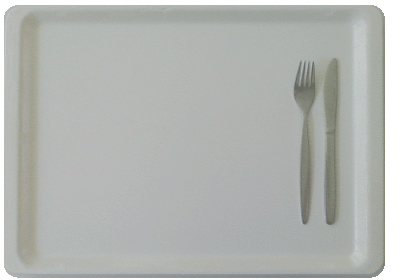
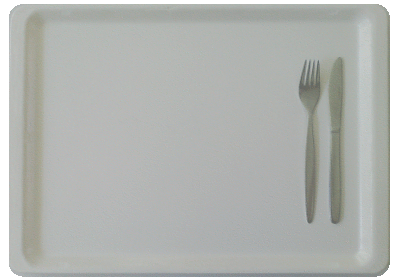
enhance single food view for mobile devices

Changed region(s): [[0.0, 0.0, 0.99, 1.0], [0.09, 0.1143, 0.12, 0.8857], [0.06, 0.0571, 0.09, 0.0857]]

diff --git a/source/App.css b/source/App.css
@@ -96,6 +96,7 @@ div#app_food {
 	z-index: 1;
 }
 
+/* normal size*/
 #app_food_foodPictureWrapper {
 	z-index: 2;
 	padding-top: 45px;
@@ -121,6 +122,31 @@ div#app_food {
    	left: -44px;
 }
 
+/* small size */
+.small_screen#app_food_foodPictureWrapper {
+	z-index: 2;
+	padding-top: 20px;
+	padding-bottom: 20px;
+	margin-top: 20px;
+	margin-bottom: 20px;
+	height: 170px;
+	background: url(../assets/tablet_small.png) center center no-repeat;
+	text-align: center;
+}
+
+.small_screen#app_food_foodPictureWrapper #app_food_foodPicture {
+	z-index: 4;
+	width: 130px; /* Breite des Elements */
+   	height: 130px; /* Höhe des Elements */
+}
+
+.small_screen#app_food_foodPictureWrapper #app_food_zoomFoodPicture {
+	z-index: 5;
+	width: 48px; /* Breite des Elements */
+   	height: 48px; /* Höhe des Elements */
+   	position: relative;
+   	left: -20px;
+}
 
 div#app_food_foodname {
 	font: normal normal normal 16px/18px Courgette, Purisa, Helvetica, Arial, sans-serif;
@@ -133,15 +159,13 @@ div#app_food_foodname {
 	background: #f1f3a2; 
 	background:	-webkit-gradient(linear, 0% 0%, 0% 100%, from(rgba(247,247,210,1)), to(rgba(240,242,155,1)));
 	background: -moz-linear-gradient(top,  rgba(247,247,210,1), rgba(240,242,155,1)); /* for firefox 3.6+ */ 
-	box-shadow: 0 2px 12px rgb(0,0,0);
-	box-shadow: 0 2px 12px rgba(0,0,0,0.5);
-	-moz-box-shadow: 0 2px 12px rgba(0,0,0,0.5); /* Mozilla Firefox */
-	-webkit-box-shadow: 0 2px 12px rgba(0,0,0,0.5); /* Chrome */
-	box-shadow: 0 1px 2px #000; 
 	-webkit-transform: rotate(-3deg);
     -moz-transform: rotate(-3deg);
     -ms-transform: rotate(-3deg);
     transform: rotate(-3deg);
+    border-width:0px 1px 1px 0px;
+    border-color: #000;
+    border-style:solid;
     z-index: 7;
 }
 div#app_food_foodname div#app_food_foodtitle {
@@ -159,15 +183,13 @@ div#app_food_foodFee {
 	background: #f1f3a2; 
 	background:	-webkit-gradient(linear, 0% 0%, 0% 100%, from(rgba(247,247,210,1)), to(rgba(240,242,155,1)));
 	background: -moz-linear-gradient(top,  rgba(247,247,210,1), rgba(240,242,155,1)); /* for firefox 3.6+ */ 
-	box-shadow: 0 2px 12px rgb(0,0,0);
-	box-shadow: 0 2px 12px rgba(0,0,0,0.5);
-	-moz-box-shadow: 0 2px 12px rgba(0,0,0,0.5); /* Mozilla Firefox */
-	-webkit-box-shadow: 0 2px 12px rgba(0,0,0,0.5); /* Chrome */
-	box-shadow: 0 1px 2px #000; 
 	-webkit-transform: rotate(7deg);
     -moz-transform: rotate(7deg);
     -ms-transform: rotate(7deg);
     transform: rotate(7deg);
+    border-width:0px 1px 1px 0px;
+    border-color: #000;
+    border-style:solid;
     z-index: 6;
 }
 div#app_food_foodFee div#app_food_feeTitle {
@@ -204,3 +226,14 @@ div#app_modalPopupAbout img {
 #app_foodlist_list_port {
 	background: url(../assets/bg.png);
 }
+
+#app_buttonPreviousFood {
+	padding: 5px;
+	float:right; 
+}
+
+#app_buttonNextFood {
+	padding: 5px;
+	float:right;
+}
+

diff --git a/source/App.js b/source/App.js
@@ -69,8 +69,9 @@ enyo.kind({
 				{kind: "onyx.Grabber"},
 				{kind: "Scroller", thumb: false, fit: true, touch: true, vertical: "hidden", style: "margin: 0;", components: [
 					{classes: "onyx-toolbar-inline", style: "white-space: nowrap;", components: [
-						{kind: "onyx.Button", name:"buttonPreviousFood", ontap:"buttonPreviousFood", components: [ {kind: "onyx.Icon", style: "width: 24px; height: 24px;", src: "assets/go-previous-gray.png"} ]},
-						{kind: "onyx.Button", name:"buttonNextFood", ontap:"buttonNextFood", components: [ {kind: "onyx.Icon", style: "width: 24px; height: 24px;", src: "assets/go-next-gray.png"} ]}
+						{kind: "onyx.Button", name:"buttonBack", ontap:"buttonBack", components: [ {kind: "onyx.Icon", style: "width: 24px; height: 24px;", src: "assets/go-back-gray.png"} ]},
+						{kind: "onyx.Button", name:"buttonNextFood", ontap:"buttonNextFood", components: [ {kind: "onyx.Icon", style: "width: 24px; height: 24px;", src: "assets/go-next-gray.png"} ]},
+						{kind: "onyx.Button", name:"buttonPreviousFood", ontap:"buttonPreviousFood", components: [ {kind: "onyx.Icon", style: "width: 24px; height: 24px;", src: "assets/go-previous-gray.png"} ]}
 					]}
 				]}
 			]},
@@ -93,6 +94,7 @@ enyo.kind({
 		});
 		// set visibility of food rotation buttons
 		if (!AppModel.getExistsSmallScreen()) {
+			this.$.buttonBack.setStyle("visibility:hidden;");
 			this.$.buttonPreviousFood.setStyle("visibility:hidden;");
 			this.$.buttonNextFood.setStyle("visibility:hidden;");
 		}
@@ -172,5 +174,8 @@ enyo.kind({
     buttonNextFood: function() {
     	var foodEntry =  FoodModel.getNextFood();
     	this.$.food.setFood(foodEntry);
-    }
+    },
+    buttonBack: function() {
+    	this.setIndex(0);
+	}
 });

diff --git a/source/Food.js b/source/Food.js
@@ -14,7 +14,7 @@ enyo.kind({
 					{name: "description"}
 				]},
 				{name: "foodPictureWrapper", kind: "FittableRows", components: [
-					{name: "foodPicture", kind: "Image", src: "assets/0.png", style: "width: 190px;", onerror: "imageError"},
+					{name: "foodPicture", kind: "Image", src: "assets/0.png", onerror: "imageError"},
 					{name: "zoomFoodPicture", kind: "Image", src: "assets/zoom.png", ontap: "showPopup", popup: "modalPopupViewLargerPicture"}
 				]},
 				{name: "foodFee", components: [
@@ -35,6 +35,9 @@ enyo.kind({
 		this.inherited(arguments);
 	},
 	setFood: function(inFood) {
+		if (AppModel.getExistsSmallScreen()) {
+			this.$.foodPictureWrapper.setClasses("small_screen");
+		}
 		this.selectedFood = inFood;
 		this.$.foodtitle.setContent(inFood.category);
 		this.$.description.setContent(inFood.description);

diff --git a/source/model/AppModel.js b/source/model/AppModel.js
@@ -3,7 +3,7 @@
  */
 var AppModel = ({
 	initialize: function()  {
-		this.version = "0.1.5";
+		this.version = "0.1.6";
     	this.author = "Björn Adelberg";
     	this.supportMail = "bjawebos@adelberg-online.de";
     	this.supportHomepage = "http://dev.adelberg-online.de";
